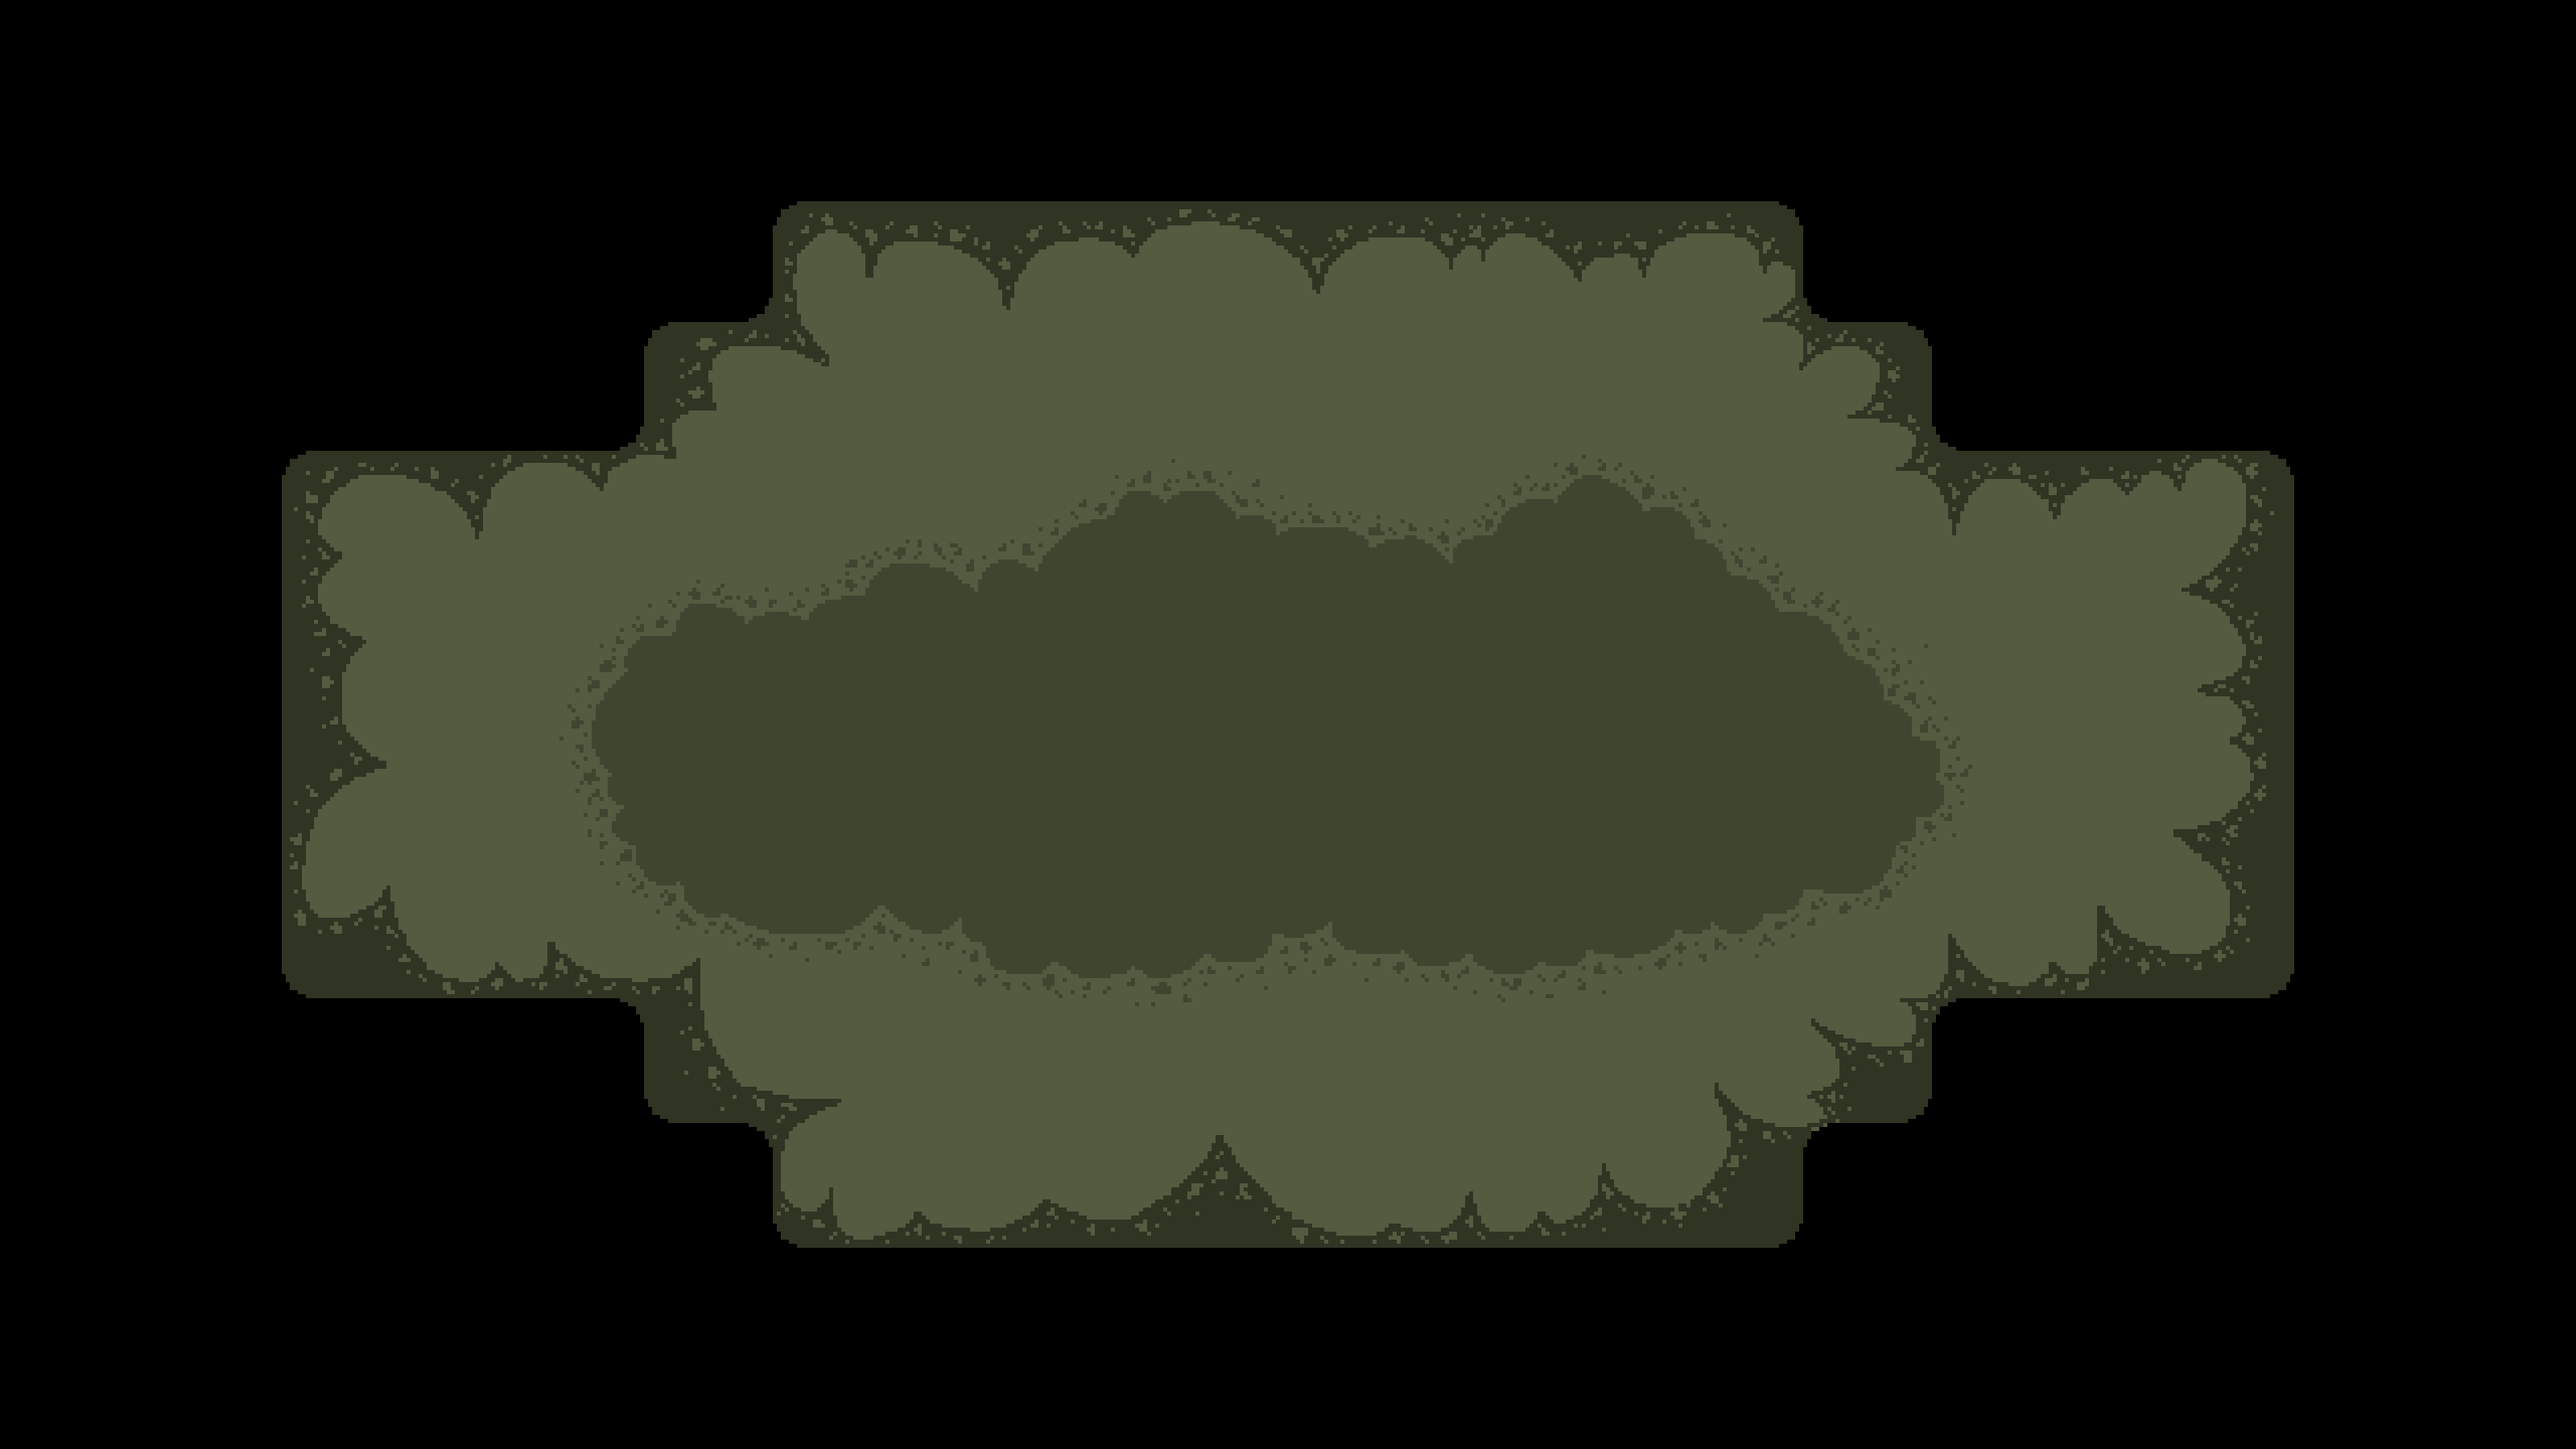
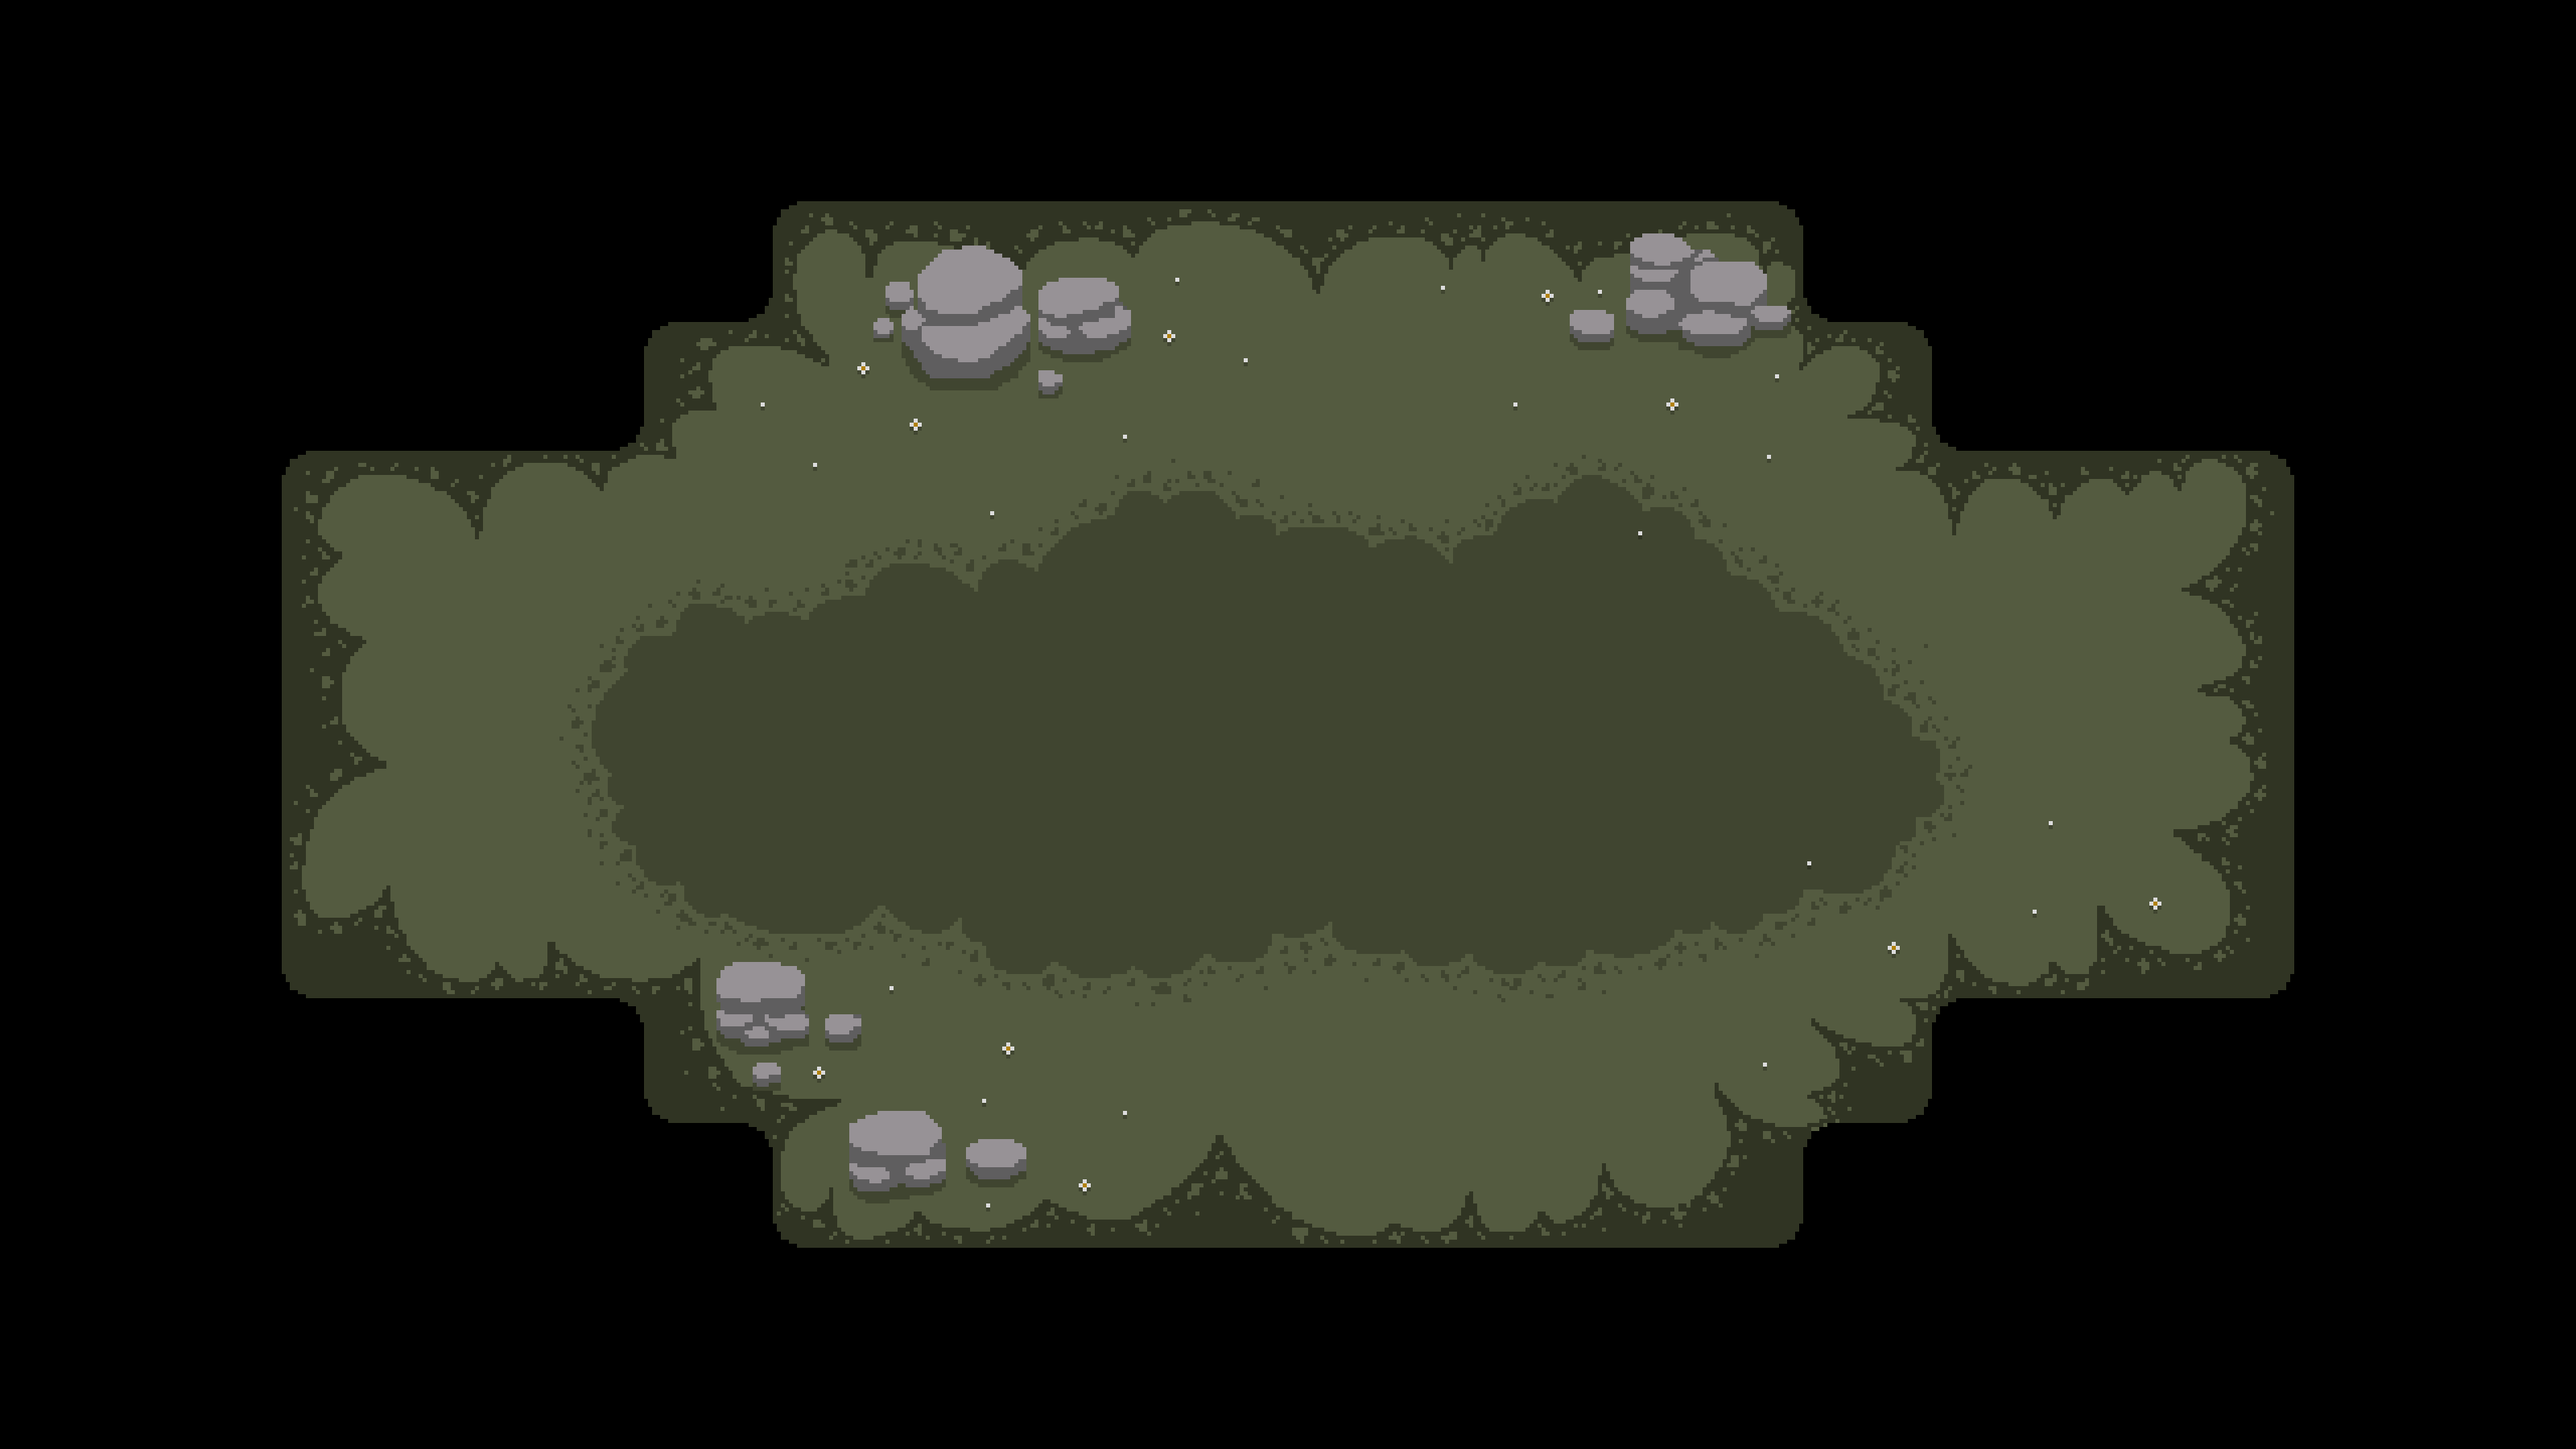
changed lvl 9 background added fish enemies
added fish enemies for lvl 10 and jellyfish

diff --git a/An Phiast Game/game/script.js b/An Phiast Game/game/script.js
@@ -896,6 +896,11 @@ function loadLevel(levelIndex) {
     player.x = 236;
     player.y = 540;
     }
+    else if (levelIndex === 9) {
+    // level 10
+    player.x = 190;
+    player.y = 540;
+    }
     else {
     //first three levels so far
     player.x = 291;
